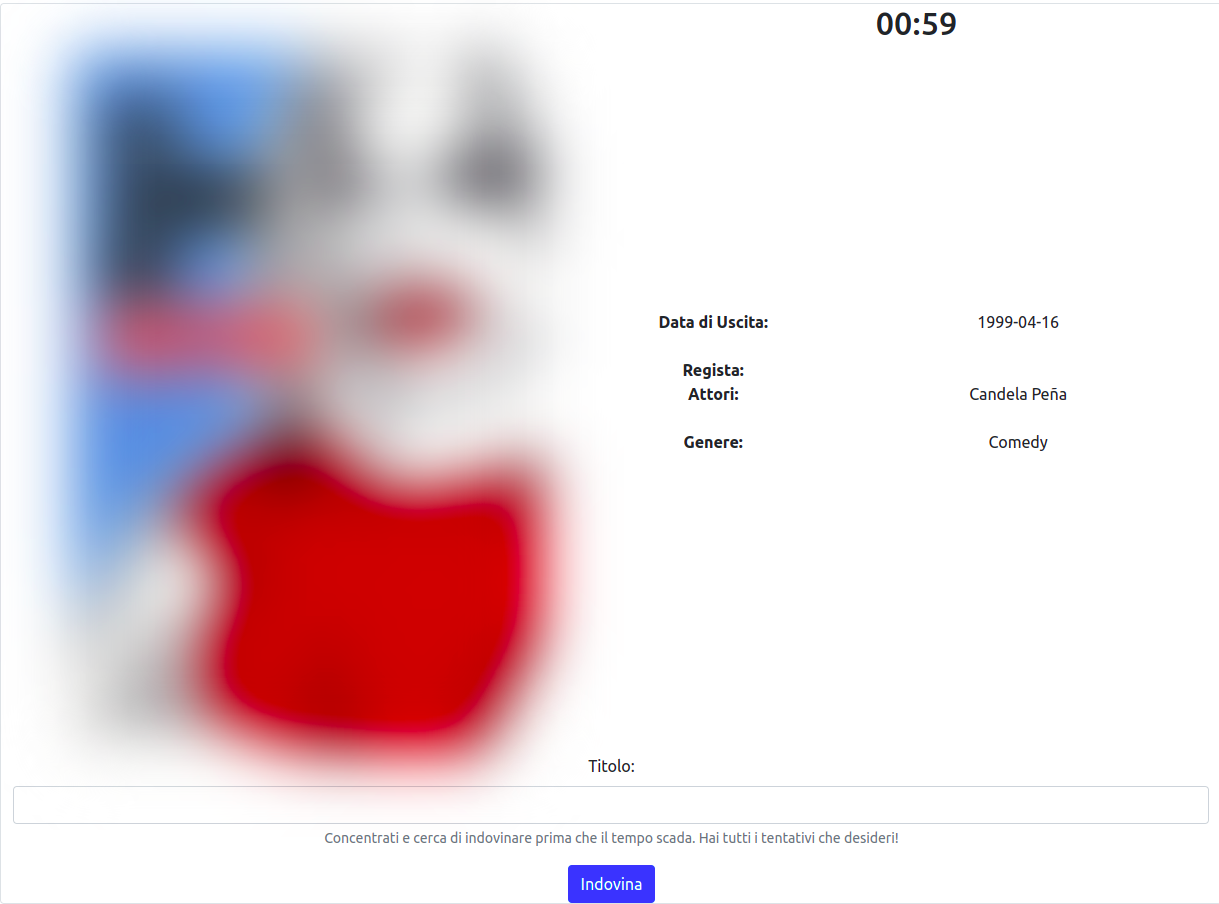
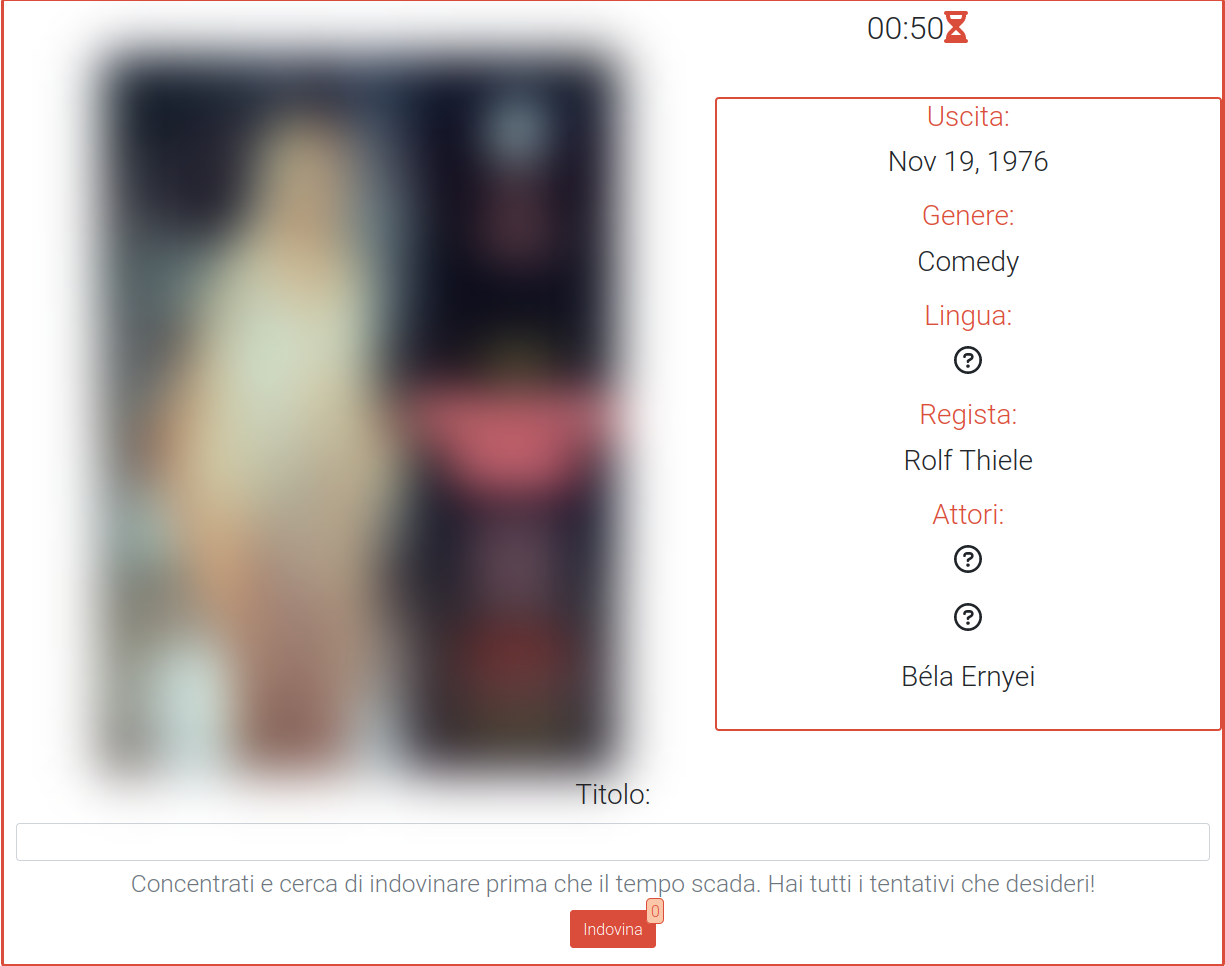
fine home

diff --git a/frontend/angular/GuessWhosBackTheMovie/src/app/components/gioco/gioco.component.ts b/frontend/angular/GuessWhosBackTheMovie/src/app/components/gioco/gioco.component.ts
@@ -7,6 +7,9 @@ import { MovieDetails,Genre } from 'src/app/model/movieDetails.model';
 import { TMDBApiService } from 'src/app/services/tmdb-api.service';
 import { faFloppyDisk, faCircleQuestion, faPlayCircle} from '@fortawesome/free-regular-svg-icons';
 import { faBurst, faTrophy, faHourglassStart, faHourglassEnd, faHourglassHalf, } from '@fortawesome/free-solid-svg-icons';
+import { PreferredMovieService } from 'src/app/services/preferred-movie.service';
+import { SessionStorageService } from 'src/app/services/session-storage.service';
+import { Prefferd } from 'src/app/model/prefferd.model';
 
 
 @Component({
@@ -50,7 +53,10 @@ export class GiocoComponent implements OnInit {
 
   points: number | null = 0;
   trys:number = 0;
+  giaGiocati: number[]=[]
+  myMovies: Prefferd[]=[];
 
+ //Icone 
   saveIcon = faFloppyDisk;
   loseIcon = faBurst;
   winIcon = faTrophy;
@@ -66,10 +72,24 @@ export class GiocoComponent implements OnInit {
 
   constructor(
     public newMovieService: TMDBApiService,
-    private router:Router
+    private router:Router,
+    private prefferredService:PreferredMovieService,
+    private sessionService: SessionStorageService
     ){ }
 
   ngOnInit(): void {
+    this.prefferredService.findAllMoviesbyUserId(this.sessionService.getUserId()).subscribe({
+      next: (res)=> {
+        this.myMovies = res;
+        for (const movie of this.myMovies) {
+      this.giaGiocati.push(movie.movieId)  
+    }
+      },
+      error: (res) => console.log(res)
+    });
+    
+    
+
   }
 
 
@@ -125,9 +145,9 @@ export class GiocoComponent implements OnInit {
   
   // metodo che recupera tutte le informazioni utili dall Api esterna e fa controli su presenza poster e gia giocati  
     retirveMovie(){
-
+    console.log(this.giaGiocati)
     this.movieId = this.getRandomInt(this.maxRandom);
-
+    if(!this.giaGiocati.includes(this.movieId)){
     this.newMovieService.getMovieDetails(this.movieId).subscribe({
       next: (res)=> {
         this.movieDetails = res;
@@ -146,7 +166,7 @@ export class GiocoComponent implements OnInit {
         this.retirveMovie(); },
         });
 
-    
+      }else this.retirveMovie();
   }
   
 // Metodo per valutare l input sul tentativo titolo

diff --git a/frontend/angular/GuessWhosBackTheMovie/src/app/components/gioco/gioco.component.html b/frontend/angular/GuessWhosBackTheMovie/src/app/components/gioco/gioco.component.html
@@ -30,19 +30,19 @@
                       <dl class="row ">
                         
                         <div class="col-6 col-md-12 justify-content-center text center ">
-                        <h3  >Uscita:</h3>
+                        <h3 class="text-primary" >Uscita:</h3>
                         <div  >
                             <p [hidden]="!showDate" >{{movieDetails?.release_date | date}}</p>
                             <p [hidden]="showDate" ><fa-icon [icon]="guessIcon"></fa-icon></p>
                         </div> 
                         
-                        <h3 >Genere:</h3>
+                        <h3 class="text-primary">Genere:</h3>
                         <div>
                             <p [hidden]="!showGenres[0]" > {{genres[0].name}} </p>
                             <p [hidden]="showGenres[0]" > <fa-icon [icon]="guessIcon"></fa-icon></p>
                             
                         </div>
-                        <h3 >Lingua:</h3>
+                        <h3 class="text-primary">Lingua:</h3>
                         <div>
                             <p [hidden]="!showGenres[1]" > {{movieDetails?.original_language}} </p>
                             <p [hidden]="showGenres[1]" > <fa-icon [icon]="guessIcon"></fa-icon></p>
@@ -51,13 +51,13 @@
                         </div>
 
                         <div class="col-6 col-md-12 ">
-                        <h3>Regista:</h3>
+                        <h3 class="text-primary">Regista:</h3>
                         <div  >
                             <p [hidden]="!showDirector"> {{director[0].name}}</p>
                             <p [hidden]="showDirector"> <fa-icon [icon]="guessIcon"></fa-icon> </p>
                         </div>
 
-                        <h3 >Attori:</h3>
+                        <h3 class="text-primary">Attori:</h3>
                         <div >
                             <p [hidden]="!showActors[0]"> {{cast[0].name}} </p>
                             <p [hidden]="showActors[0]"> <fa-icon [icon]="guessIcon"></fa-icon></p>

diff --git a/frontend/angular/GuessWhosBackTheMovie/src/app/components/home/home.component.html b/frontend/angular/GuessWhosBackTheMovie/src/app/components/home/home.component.html
@@ -28,13 +28,13 @@
                         </button>
                       </div>
                 </div>
-                <div class="col-12 col-md-6">
+                <div class="col-12 col-md-6 align-self-center">
                     <p>Divertiti ad indovinare il film proposto prima che il tempo scada. 
                     Avrai 3 minuti per indovinare piu sarai rapido piu alto sarà il tuo punteggio</p>
                     <div class="row">
                         <div class="col-8 align-self-center">
                     <p>Saranno disponibili, con il passare del tempo, sempre piu indizi.<br> 
-                    Inoltre il blur della locandina sarà sempre meno sino a renderla completamente visibile.</p>
+                    Inoltre il blur della locandina sarà sempre minore sino a renderla completamente visibile. Ogni secondo passato sarà un prezioso punto in meno!</p>
                     </div>
                     <div class="col-4 ps-0">
                     <ul class="list-group">
@@ -58,6 +58,18 @@
                    
                     </div>  
                 </div>
+            </div>
+            <div class="row">
+              <div class="col-6 align-self-center text-center">
+               
+                  <p> Finito di giocare potrai decidere di salvare il film nei preferiti. <br>
+                  Dalla sezione dedicata potrai accedere a tutti i film salvati e vedere le informazioni su ognuno di essi. </p>
+                 
+              </div>
+              <div class="col-6">
+                <img src="../../../assets/salvataggio.png" class="d-block w-100" alt="...">
+              </div>
+
             </div>
             
        </div>
